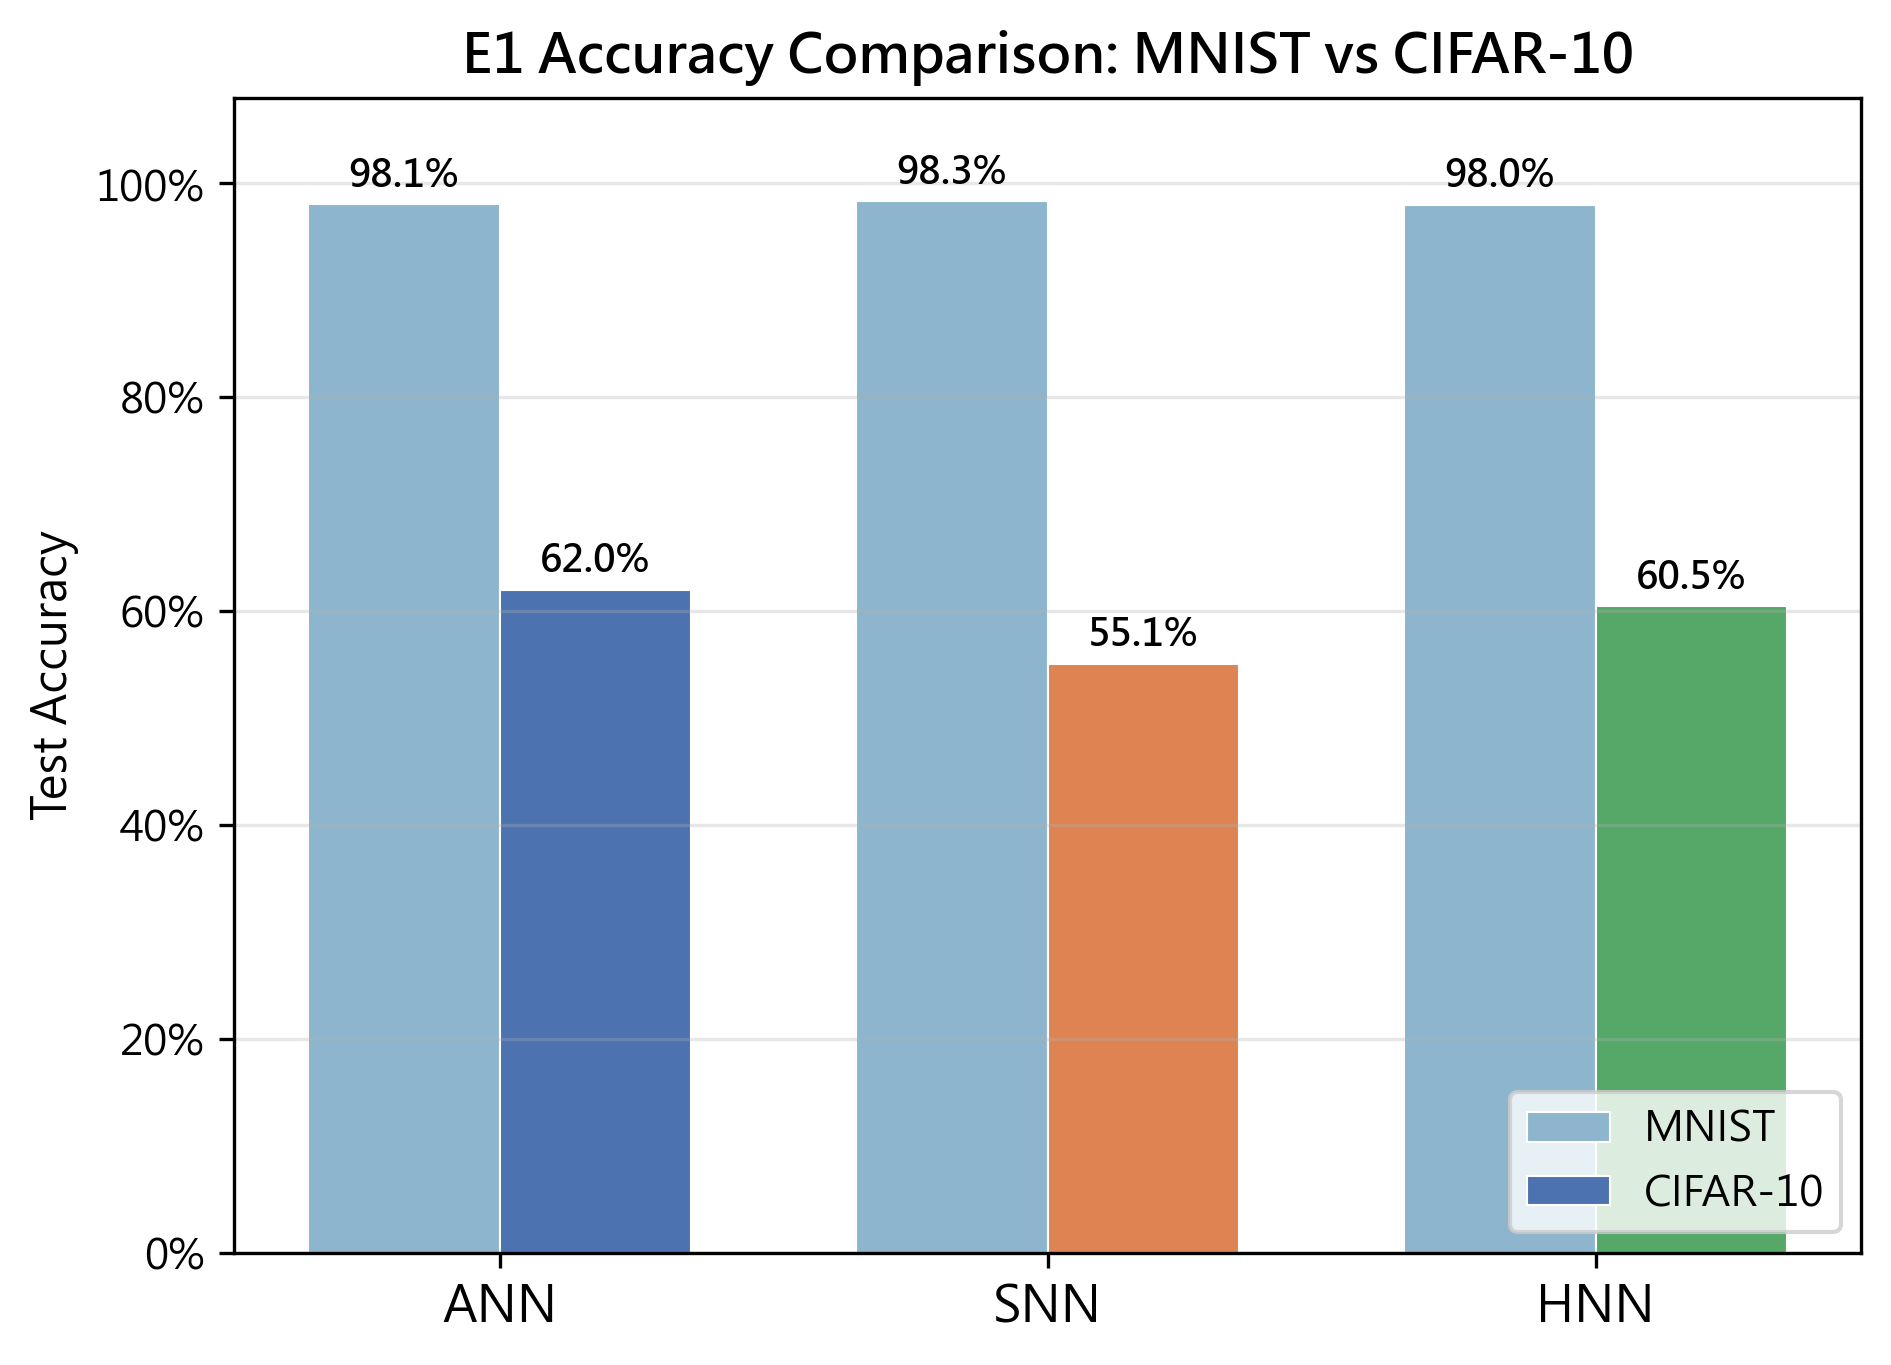
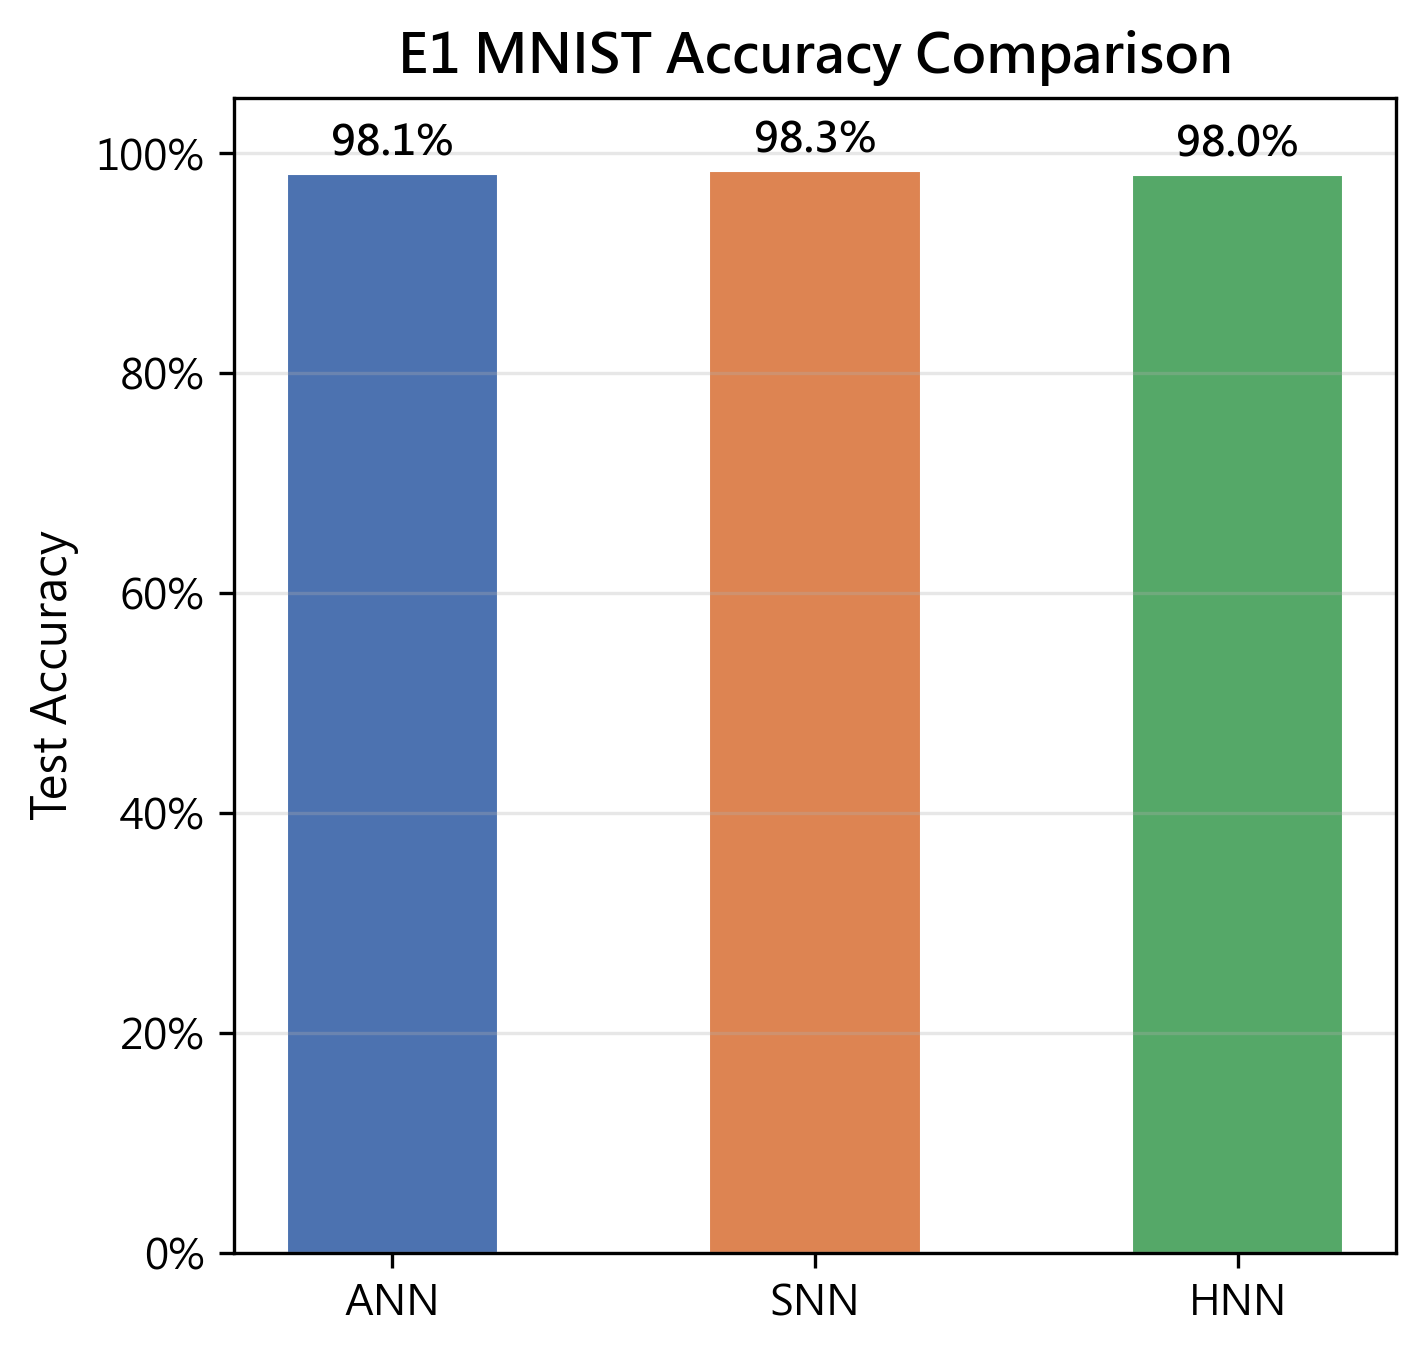
fig1: MNIST only; update report description

diff --git a/scripts/make_figures.py b/scripts/make_figures.py
@@ -106,38 +106,26 @@ def fig_e1_overview():
     a_mnist = get_best_acc(ann_mnist)
     s_mnist = get_best_acc(snn_mnist)
     h_mnist = get_best_acc(hnn_mnist)
-    a_c10   = get_best_acc(ann_c10, picker=pick_best_default)
-    s_c10   = get_exact_acc(snn_c10, time_steps=10, threshold=1.0, beta=0.95)
-    h_c10   = get_exact_acc(hnn_c10, time_steps=10, threshold=1.0, beta=0.95)
-    if any(v is None for v in [a_mnist, s_mnist, h_mnist, a_c10, s_c10, h_c10]):
+    if any(v is None for v in [a_mnist, s_mnist, h_mnist]):
         print("  WARNING: Missing runs for fig1, skipping")
         return
 
     labels = ["ANN", "SNN", "HNN"]
-    mnist_vals = [a_mnist, s_mnist, h_mnist]
-    c10_vals   = [a_c10,   s_c10,   h_c10]
+    vals = [a_mnist, s_mnist, h_mnist]
+    colors = [COLOR_ANN, COLOR_SNN, COLOR_HNN]
 
-    x = np.arange(len(labels))
-    w = 0.35
+    fig, ax = plt.subplots(figsize=(5, 5))
+    bars = ax.bar(labels, vals, color=colors, edgecolor="white", linewidth=0.5, width=0.5)
 
-    fig, ax = plt.subplots(figsize=(7, 5))
-    b1 = ax.bar(x - w/2, mnist_vals, w, label="MNIST",
-                color=[COLOR_MNIST]*3, edgecolor="white", linewidth=0.5)
-    b2 = ax.bar(x + w/2, c10_vals,   w, label="CIFAR-10",
-                color=[COLOR_ANN, COLOR_SNN, COLOR_HNN], edgecolor="white", linewidth=0.5)
-
-    for bar, val in zip(b1 + b2, mnist_vals + c10_vals):
+    for bar, val in zip(bars, vals):
         ax.text(bar.get_x() + bar.get_width()/2, bar.get_height() + 0.008,
-                f"{val:.1%}", ha="center", va="bottom", fontsize=9, fontweight="bold")
+                f"{val:.1%}", ha="center", va="bottom", fontsize=10, fontweight="bold")
 
-    ax.set_xticks(x)
-    ax.set_xticklabels(labels, fontsize=12)
     ax.set_ylabel("Test Accuracy", fontsize=11)
-    ax.set_ylim(0, 1.08)
+    ax.set_ylim(0, 1.05)
     ax.yaxis.set_major_formatter(mticker.PercentFormatter(1.0))
-    ax.legend(fontsize=10, loc="lower right")
     ax.grid(axis="y", alpha=0.3)
-    ax.set_title("E1 Accuracy Comparison: MNIST vs CIFAR-10", fontsize=13, fontweight="bold")
+    ax.set_title("E1 MNIST Accuracy Comparison", fontsize=13, fontweight="bold")
 
     styled_save(fig, "fig1_e1_overview.png")
 

diff --git a/report/report.md b/report/report.md
@@ -73,7 +73,7 @@ SNN 的 rate coding 將每個像素值 p ∈ [0,1] 轉換為 T 個 Bernoulli tri
 
 ![E1 Accuracy Comparison](images/fig1_e1_overview.png)
 
-▲ 圖 1: MNIST 與 CIFAR-10 上的準確率比較。
+▲ 圖 1: MNIST 上的準確率比較。
 
 ![E1 CIFAR-10 Detail](images/fig2_e1_cifar10.png)
 